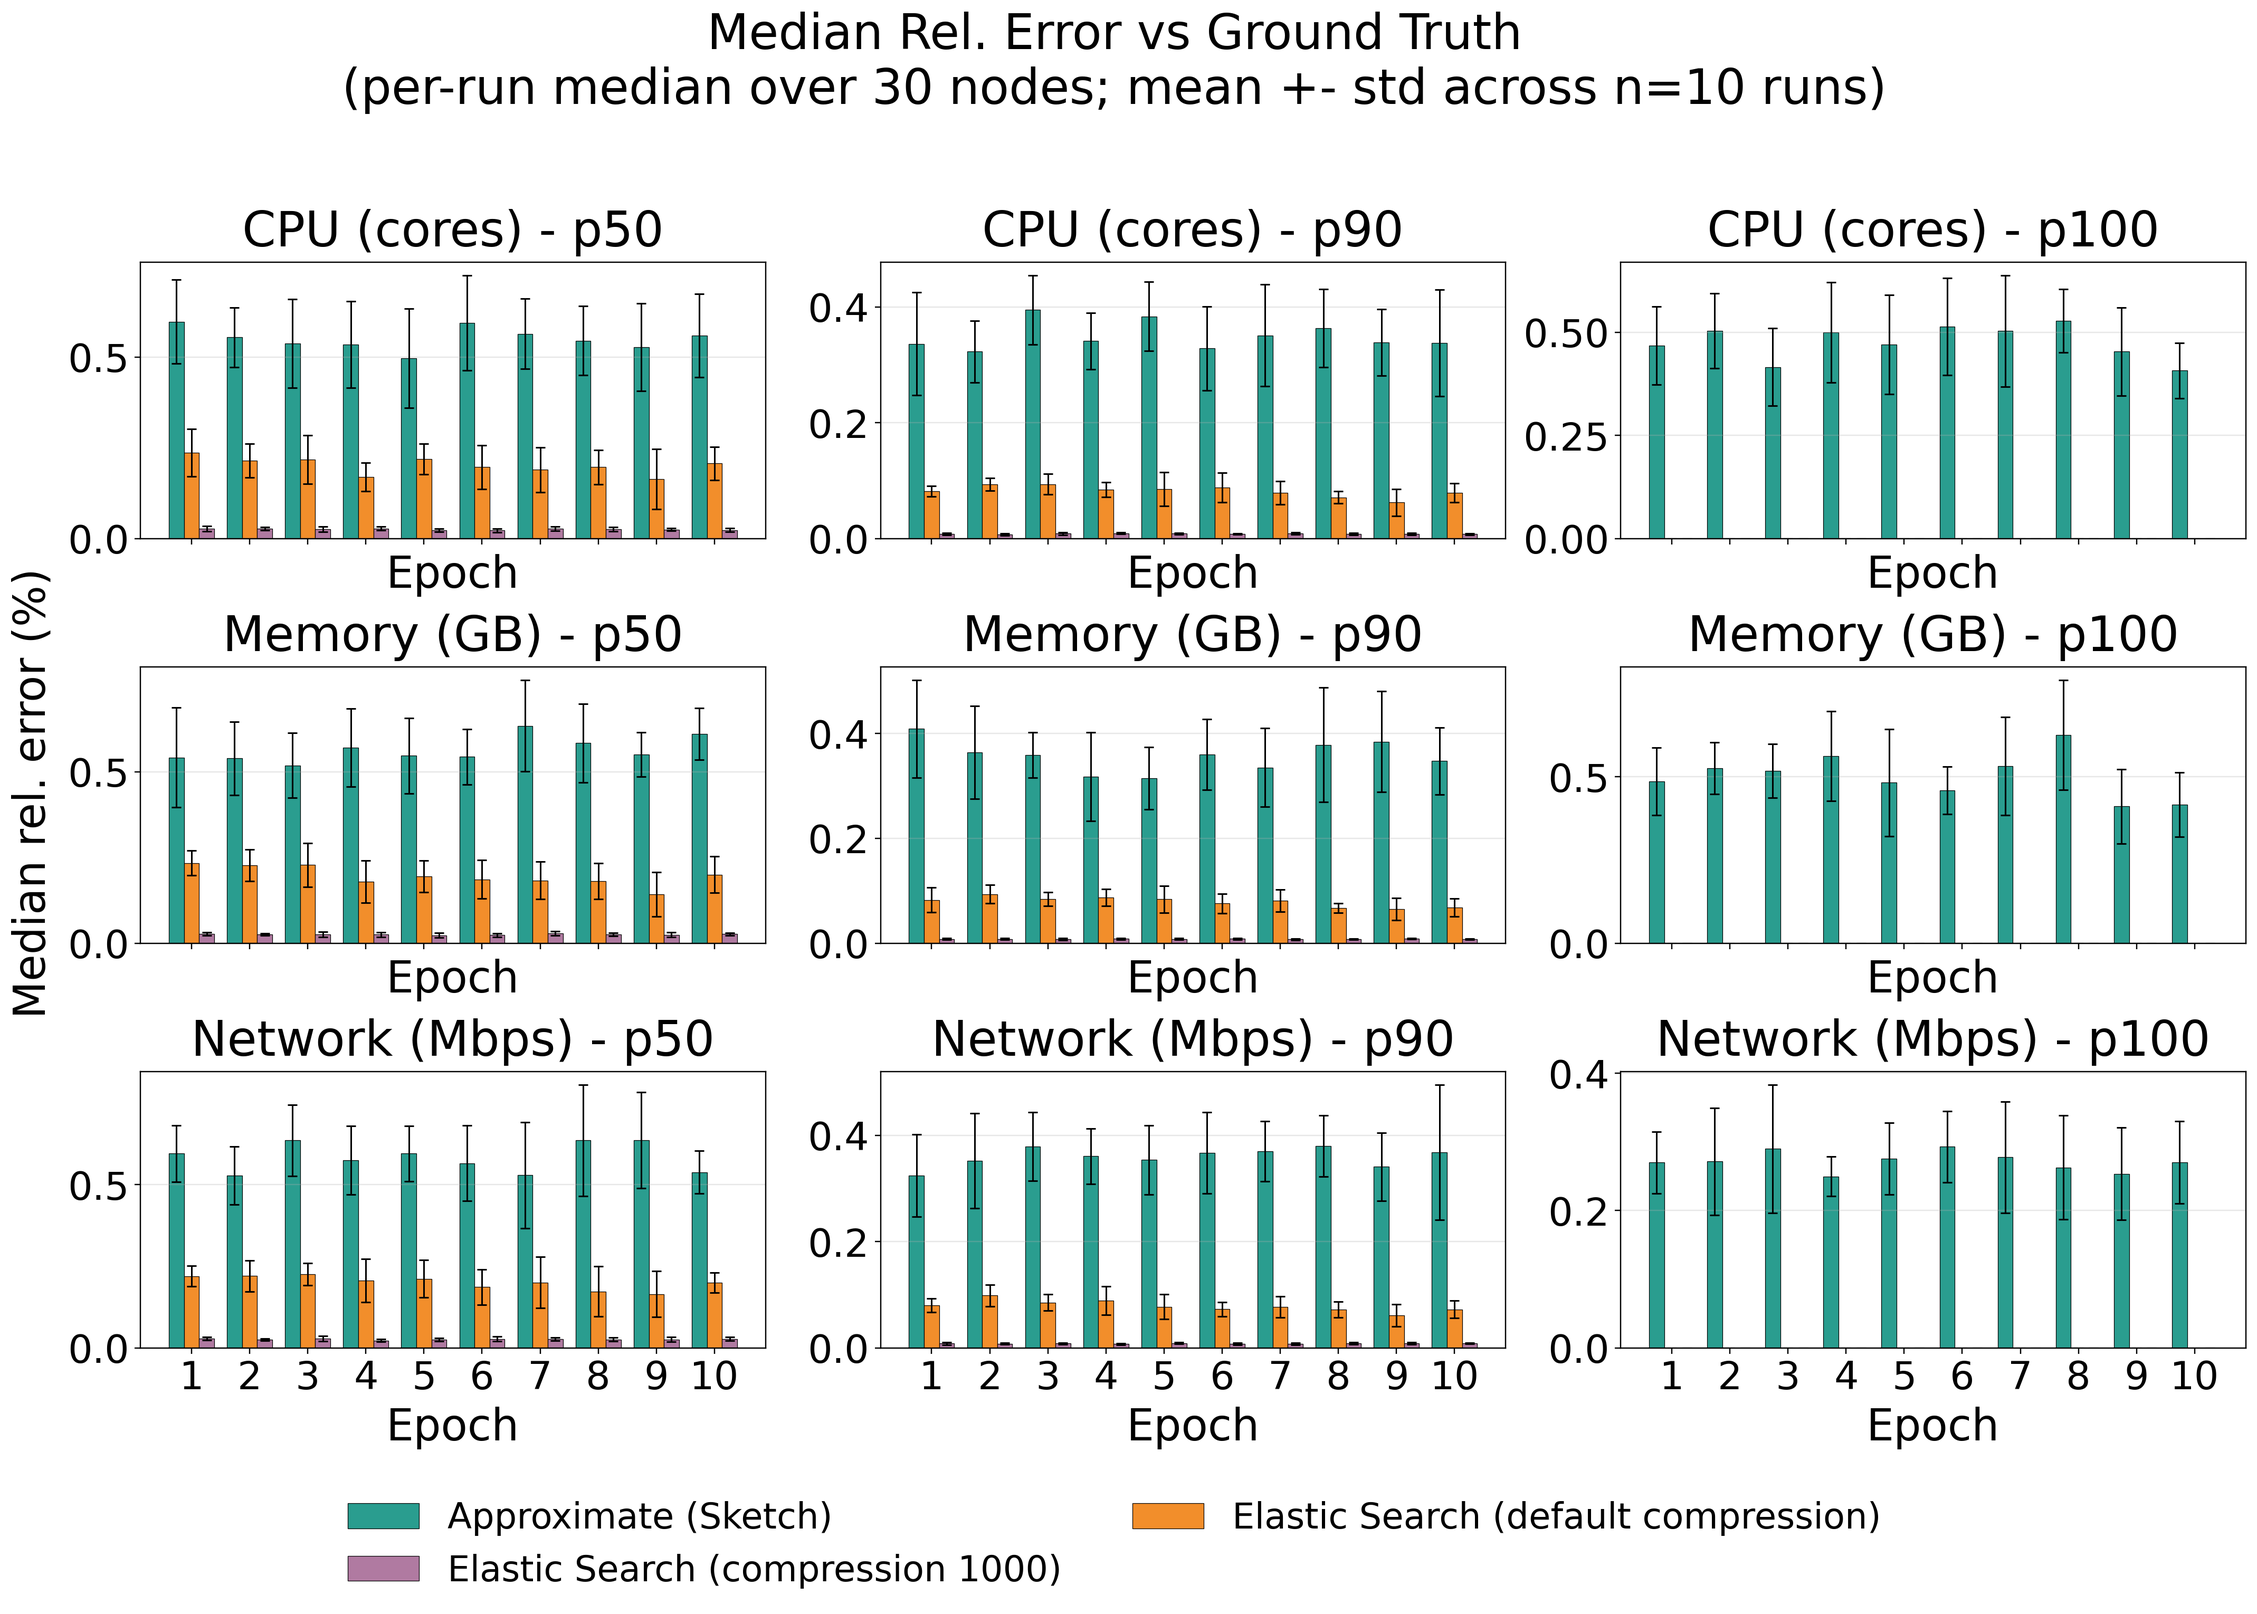
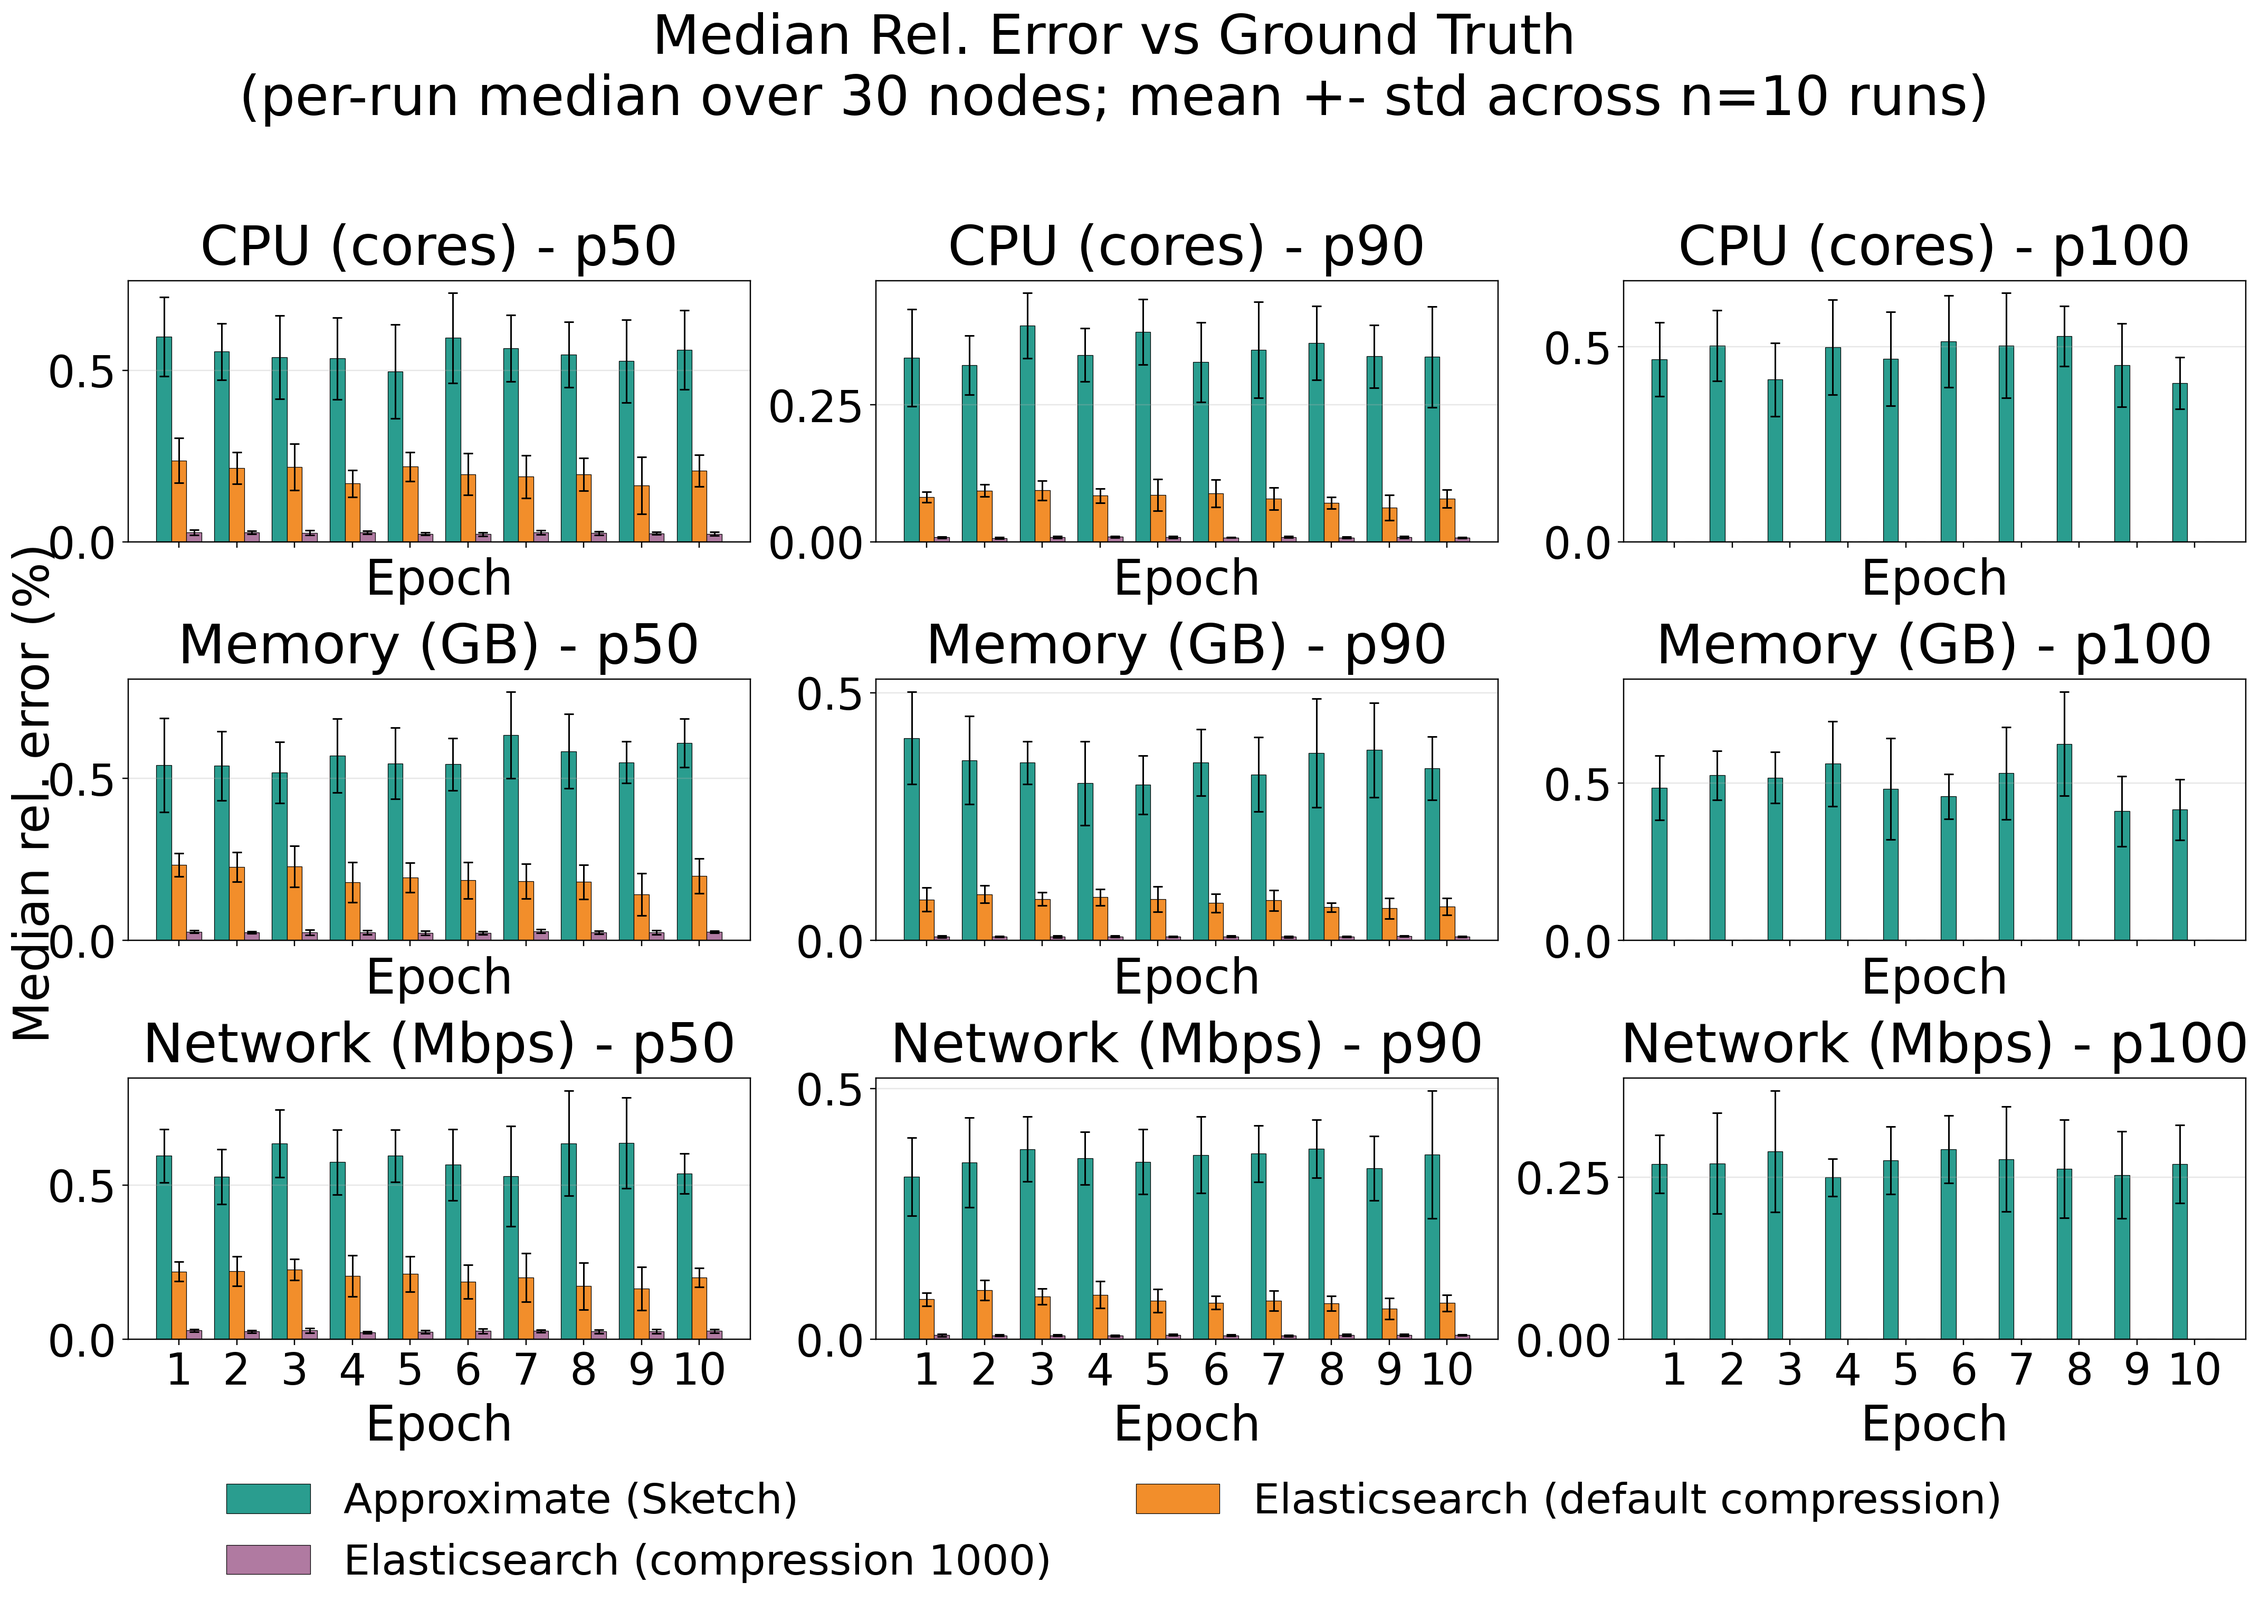
Elastic Search -> Elasticsearch

diff --git a/scripts/plot_multi_run_query.py b/scripts/plot_multi_run_query.py
@@ -58,7 +58,7 @@ def plot_chart(by_epoch, epochs, n_runs, series, out_path: Path,
     ax.grid(axis="y", alpha=0.3, which="major")
     ax.tick_params(axis="both", labelsize=TICK_FS)
     ax.set_title(
-        f"{title_prefix}\nApproximate Layer vs Elastic Search\n(mean ± std, n={n_runs} runs)",
+        f"{title_prefix}\nApproximate Layer vs Elasticsearch\n(mean ± std, n={n_runs} runs)",
         fontsize=TITLE_FS,
         pad=14,
     )
@@ -118,18 +118,18 @@ def main() -> None:
 
     plot_chart(by_epoch, epochs, n_runs, [
         ("Approximate Query",                       "server",     "#2a9d8f"),
-        ("Elastic Search Query",                    "es_default", "#f28e2b"),
-        ("Elastic Search Query (compression 1000)", "es_large",   "#b07aa1"),
+        ("Elasticsearch Query",                    "es_default", "#f28e2b"),
+        ("Elasticsearch Query (compression 1000)", "es_large",   "#b07aa1"),
     ], out_all)
 
     plot_chart(by_epoch, epochs, n_runs, [
         ("Approximate Query",    "server",     "#2a9d8f"),
-        ("Elastic Search Query", "es_default", "#f28e2b"),
+        ("Elasticsearch Query", "es_default", "#f28e2b"),
     ], out_default)
 
     plot_chart(by_epoch, epochs, n_runs, [
         ("Approximate Query",                       "server",   "#2a9d8f"),
-        ("Elastic Search Query (compression 1000)", "es_large", "#b07aa1"),
+        ("Elasticsearch Query (compression 1000)", "es_large", "#b07aa1"),
     ], out_large)
 
     # Solver plots (same format, solver_ms columns).
@@ -139,20 +139,20 @@ def main() -> None:
 
     plot_chart(by_epoch, epochs, n_runs, [
         ("Approximate Solver",                       "server_solver",     "#2a9d8f"),
-        ("Elastic Search Solver",                    "es_default_solver", "#f28e2b"),
-        ("Elastic Search Solver (compression 1000)", "es_large_solver",   "#b07aa1"),
+        ("Elasticsearch Solver",                    "es_default_solver", "#f28e2b"),
+        ("Elasticsearch Solver (compression 1000)", "es_large_solver",   "#b07aa1"),
     ], out_solver_all,
         ylabel="Solver Time (ms)", title_prefix="Solver Time Comparison")
 
     plot_chart(by_epoch, epochs, n_runs, [
         ("Approximate Solver",    "server_solver",     "#2a9d8f"),
-        ("Elastic Search Solver", "es_default_solver", "#f28e2b"),
+        ("Elasticsearch Solver", "es_default_solver", "#f28e2b"),
     ], out_solver_default,
         ylabel="Solver Time (ms)", title_prefix="Solver Time Comparison")
 
     plot_chart(by_epoch, epochs, n_runs, [
         ("Approximate Solver",                       "server_solver",   "#2a9d8f"),
-        ("Elastic Search Solver (compression 1000)", "es_large_solver", "#b07aa1"),
+        ("Elasticsearch Solver (compression 1000)", "es_large_solver", "#b07aa1"),
     ], out_solver_large,
         ylabel="Solver Time (ms)", title_prefix="Solver Time Comparison")
 

diff --git a/scripts/plot_query_accuracy_epoch.py b/scripts/plot_query_accuracy_epoch.py
@@ -39,10 +39,10 @@ import numpy as np
 
 REPO_ROOT = Path(__file__).resolve().parents[1]
 
-TITLE_FS = 30
-LABEL_FS = 27
-TICK_FS = 24
-LEGEND_FS = 22
+TITLE_FS = 34
+LABEL_FS = 30
+TICK_FS = 27
+LEGEND_FS = 26
 
 EPS = 1e-9
 
@@ -61,8 +61,8 @@ PERCENTILES = ["50", "90", "100"]
 PERCENTILES_NO_P100 = ["50", "90"]
 BACKENDS = [
     ("server",     "Approximate (Sketch)",                       "#2a9d8f"),
-    ("es_default", "Elastic Search (default compression)",       "#f28e2b"),
-    ("es_large",   "Elastic Search (compression 1000)",          "#b07aa1"),
+    ("es_default", "Elasticsearch (default compression)",       "#f28e2b"),
+    ("es_large",   "Elasticsearch (compression 1000)",          "#b07aa1"),
 ]
 
 FNAME_RE = re.compile(r"run(\d+)_epoch(\d+)\.json$")
@@ -273,7 +273,7 @@ def plot_per_metric(errors, runs, epochs, out_dir: Path,
     """
     for metric in METRICS:
         fig, axes = plt.subplots(1, len(percentiles),
-                                 figsize=(6.6 * len(percentiles), 5.2),
+                                 figsize=(6.6 * len(percentiles), 7.0),
                                  squeeze=False)
         for j, pct in enumerate(percentiles):
             ax = axes[0, j]
@@ -292,7 +292,7 @@ def plot_per_metric(errors, runs, epochs, out_dir: Path,
             f"(per-run {agg_label.lower()} over 30 nodes; mean +- std across n={len(runs)} runs)",
             fontsize=TITLE_FS - 1, y=1.02,
         )
-        fig.tight_layout(rect=[0, 0.20, 1, 0.92])
+        fig.tight_layout(rect=[0, 0.14, 1, 0.94])
         out_path = out_dir / filename_template.format(short=METRIC_SHORT[metric])
         fig.savefig(out_path, dpi=220, bbox_inches="tight")
         plt.close(fig)
